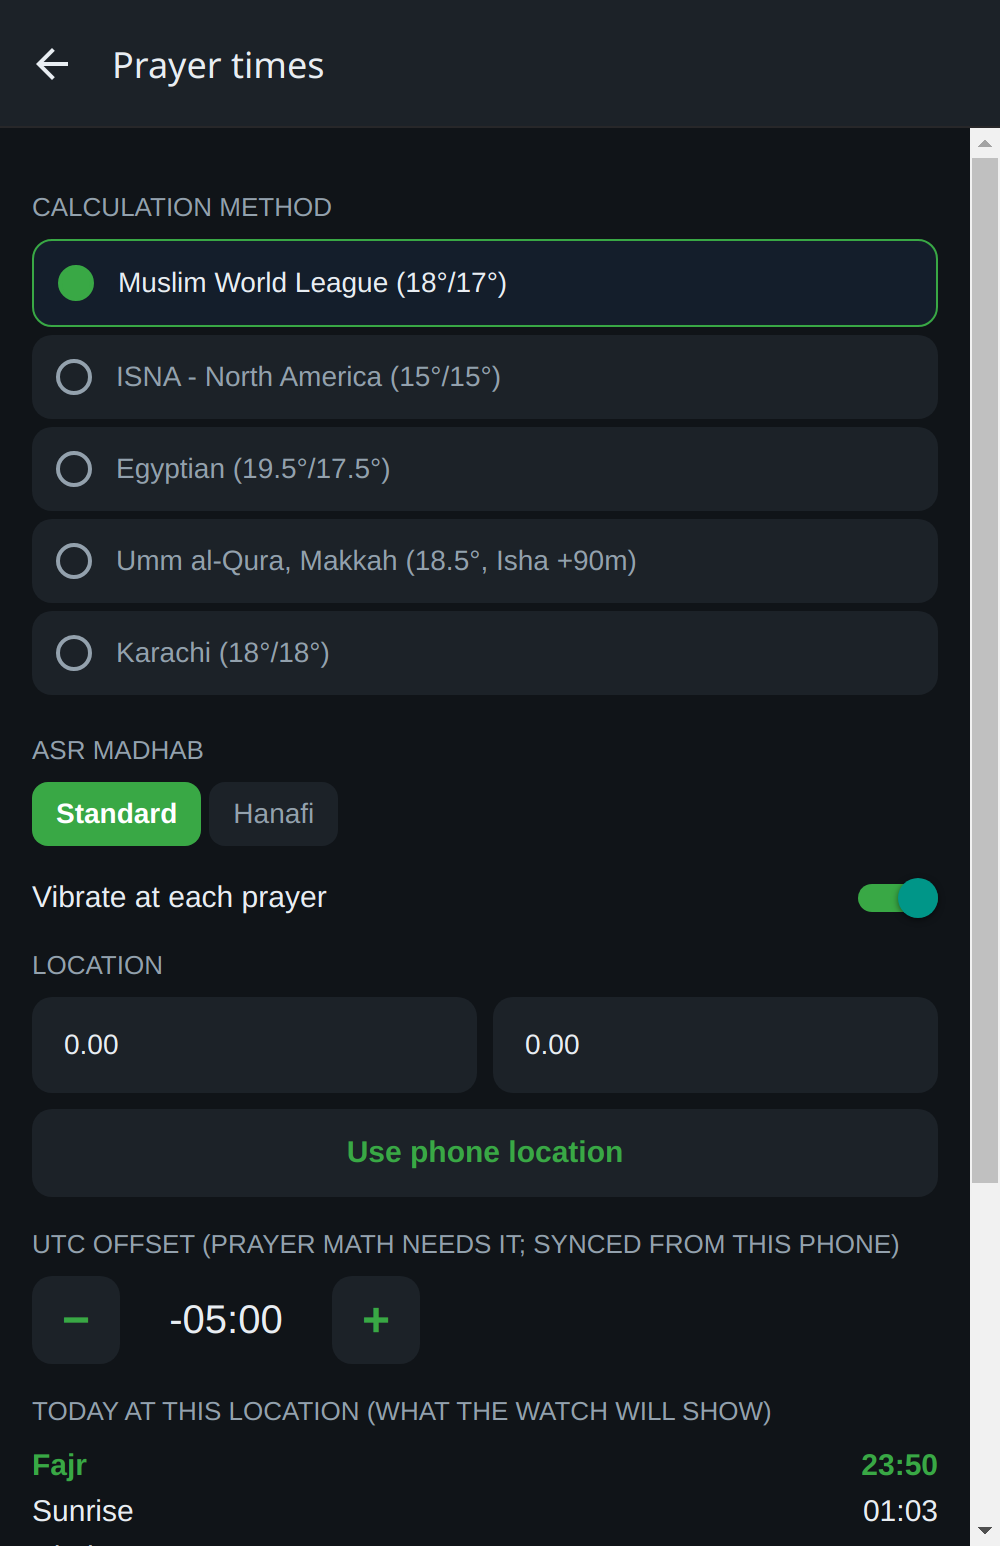
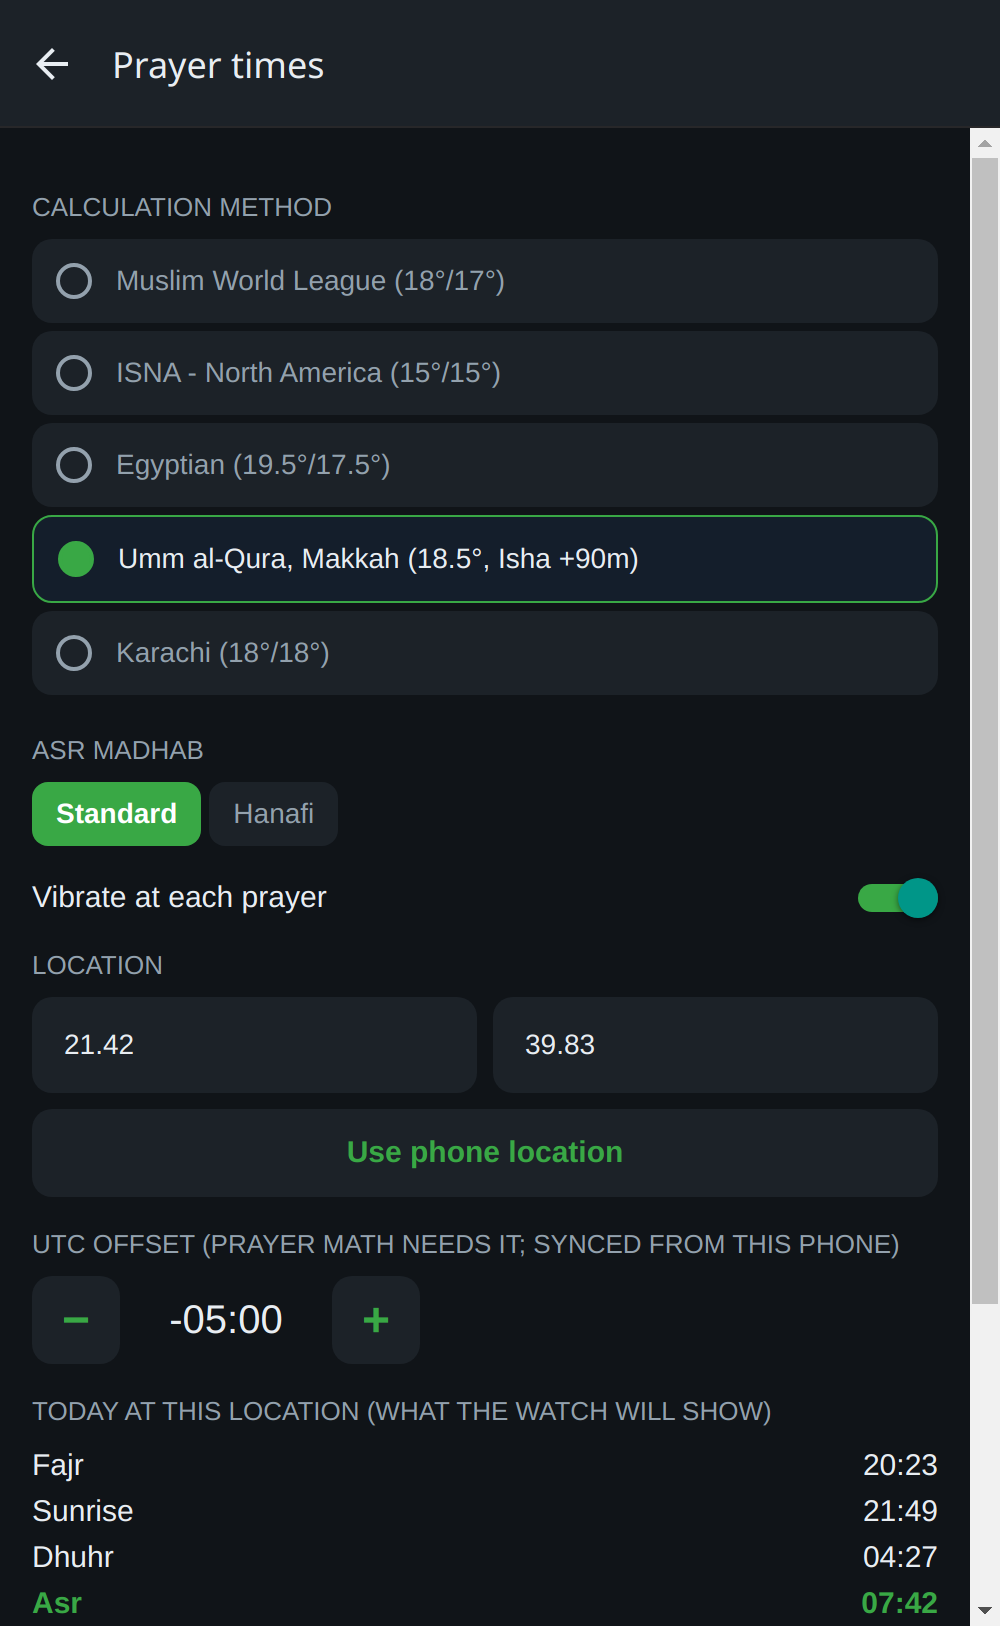
docs: feature guide — fix launcher p2, richer Schedule/Prayer/Find My, add Notifications
Address review feedback on the guide:
- Fix app-launcher page 2 image (was the clock face, now the real page-2 grid).
- Schedule: show a complex weekly recurrence (Mon/Wed/Fri) with the app's
  next-occurrences preview instead of the plain list.
- Prayer times: show the actual on-watch Prayer app with computed times (was the
  clock face); real coordinates synced from the companion.
- Find My: show the companion location history on a live MapLibre map (trail +
  accuracy + battery), captured from the Android app.
- New 'Notifications & alerts' page: a forwarded phone notification plus the
  pending-alerts queue (1/2), explaining the shared AlertQueue that keeps
  watch-originated alerts (alarm/reminder/prayer) from trampling each other.

Screenshots regenerated from the live simulator, the exported web app, and the
Android release build. HTML + PDF rebuilt (9 pages).

diff --git a/docs/guide/build-feature-guide.py b/docs/guide/build-feature-guide.py
@@ -25,10 +25,10 @@ def plain(name, cap=""):
 FLAG = [
     ("Schedule &amp; reminders", "Recurring reminders that live on the watch",
      ("watch-schedule.png", "On-watch schedule list"),
-     ("companion-schedule.png", "Companion → Schedule"),
-     ["Create recurring or one-off reminders in the app; they sync to the watch and fire on-wrist even when the phone is away.",
-      "Multi-phone-safe sync: edits from a second phone merge instead of clobbering.",
-      "The watch shows the upcoming items in a simple scrollable list."]),
+     ("companion-event-complex.png", "Companion → a complex recurring event"),
+     ["Build complex recurrences: every N days, weekly on chosen weekdays (e.g. Mon/Wed/Fri), or a day of the month — with a live preview of the next occurrences.",
+      "Reminders sync to the watch and fire on-wrist even when the phone is away; the watch shows them in a scrollable list.",
+      "Multi-phone-safe sync: edits from a second phone merge instead of clobbering."]),
     ("Alarms", "Up to five daily or one-shot alarms",
      ("watch-multialarm.png", "Multi-alarm app on the watch"),
      ("companion-alarms.png", "Companion → Alarms"),
@@ -36,17 +36,17 @@ FLAG = [
       "Changes sync both ways with conflict-safe versioning, so on-watch edits are preserved.",
       "A custom InfiniTime service replaces the stock single-alarm app."]),
     ("Prayer times", "Five daily prayers, computed on-device",
-     ("watch-face.png", "Times surface on the watch"),
+     ("watch-prayer.png", "Prayer-times app on the watch"),
      ("companion-prayer.png", "Companion → Prayer times"),
      ["Pick a calculation method (Muslim World League, ISNA, Egyptian, Umm al-Qura, Karachi…) and Asr madhab.",
-      "Set the location from the phone's GPS or enter coordinates; the watch computes the daily times itself.",
+      "Set the location from the phone's GPS or enter coordinates; the watch computes the five daily times itself and shows them in its own app.",
       "Optional vibration at each prayer time."]),
     ("Find My (locator beacon)", "Turn the watch into an Apple Find My tag",
      ("watch-findmy.png", "Find My toggle on the watch"),
-     ("companion-findmy.png", "Companion → Find My"),
-     ["Generate a key pair in the app and provision it to the watch; nearby iPhones then report its location to Apple's Find My network.",
-      "Turn beaconing on from the watch (Settings → Find My). It needs Bluetooth on and defaults OFF at every boot for privacy.",
-      "Export the keys to look the watch up in your own macless-haystack server."]),
+     ("companion-findmy-map.png", "Companion → location history on a map"),
+     ["Generate a key pair, provision it to the watch, and turn beaconing on (Settings → Find My); nearby iPhones then report its location to Apple's Find My network.",
+      "The app pulls the crowd-sourced fixes and plots the watch's location — with its recent trail and accuracy — on a live map.",
+      "Export the keys to also look the watch up in your own macless-haystack server."]),
     ("Firmware &amp; resources update (OTA)", "Update InfiniTime straight from the app",
      ("watch-ota.png", "“Firmware &amp; files” must be enabled"),
      ("companion-update.png", "Companion → Update watch"),
@@ -138,6 +138,22 @@ parts.append(f"""
     <b>Where it works.</b> Firmware DFU runs on <b>Android</b> and against the simulator; a plain web browser can&rsquo;t reach the DFU service (it&rsquo;s on Chromium&rsquo;s Bluetooth blocklist), so the app hides firmware there. Resource uploads work everywhere. Both require <b>&ldquo;Firmware &amp; files&rdquo;</b> enabled on the watch.
   </div>
 </section>""")
+
+# NOTIFICATIONS
+parts.append(f"""
+<section class="page">
+  <div class="section-tag">Notifications &amp; alerts</div>
+  <h2>Notifications that don&rsquo;t get lost</h2>
+  <p class="lead">Two kinds reach the watch: phone notifications forwarded from your phone, and watch-originated alerts (alarm, reminder, prayer) that fire on-wrist.</p>
+  <div class="row center gap">
+    {watch("watch-notification.png", "A forwarded phone notification")}
+    {watch("watch-pendingalerts.png", "The pending-alerts queue (1 of 2)")}
+  </div>
+  <div class="note">
+    <b>The pending-alerts queue.</b> Every watch-originated alert &mdash; a multi-alarm going off, a schedule reminder, a prayer-time alert &mdash; lands in one shared queue instead of each app owning a screen that the next alert would trample. Miss one while another is ringing and it still waits for you: the queue holds the most recent alerts (newest first), shows a <b>1 / N</b> counter so you can page through them, and you clear each with <b>OK</b>. Phone notifications (messages, calls) stack separately in the swipe-down notifications list.
+  </div>
+</section>
+""")
 
 # BUILT-IN APPS
 app_cells = "".join(